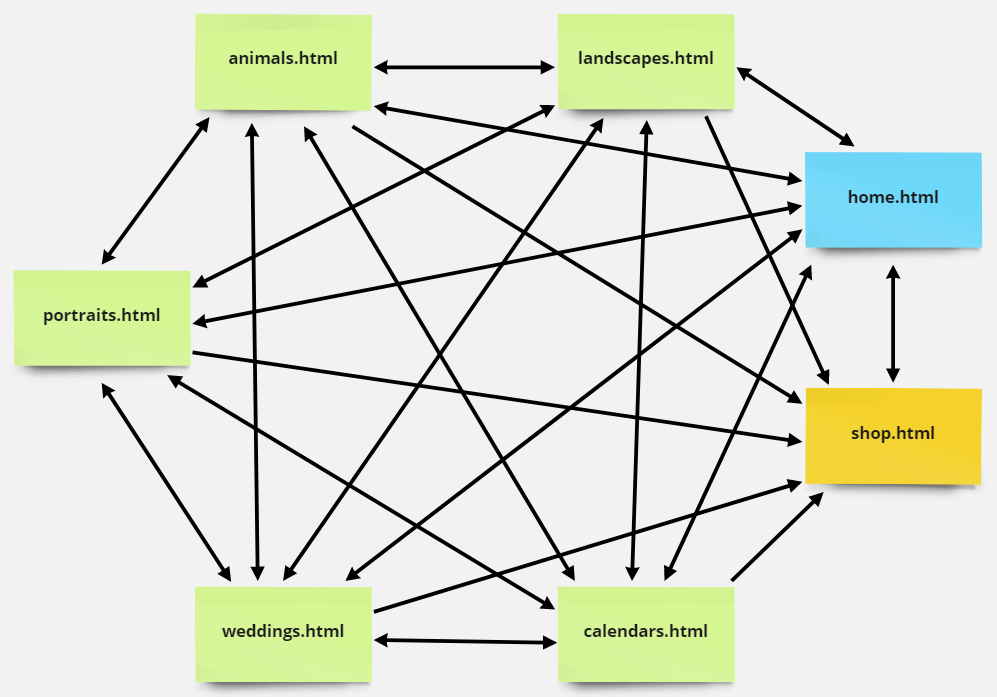
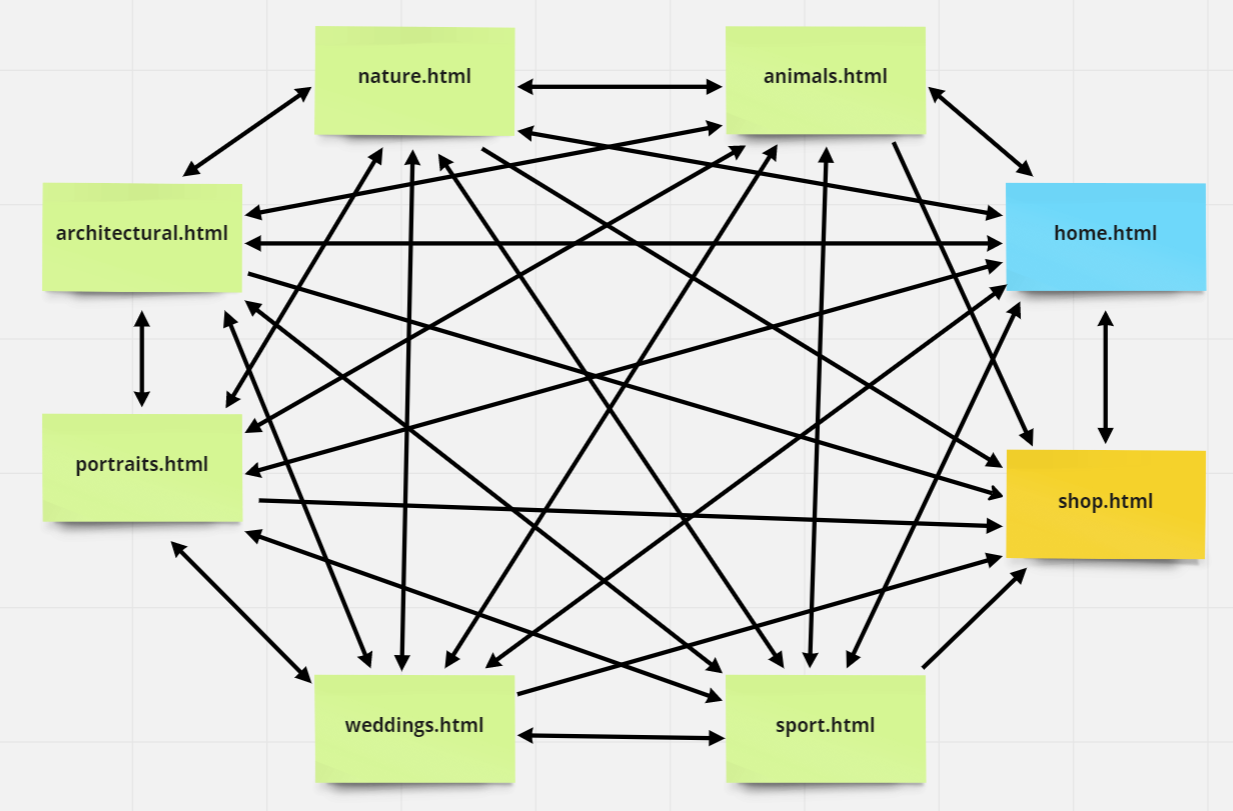
P2 navigation part updated

Changed region(s): [[0.0, 0.0, 0.995, 0.9943]]

diff --git a/Deliverables/P2_project-design/P2_design_5.html b/Deliverables/P2_project-design/P2_design_5.html
@@ -25,8 +25,8 @@
         <h2>Administrative Details</h2>
         <p>Our client is Niclas Nordlund, a photographer from Åland, Finland. 
             He is a freelance photographer who specializes in photos of animals,
-            landscapes, events and more. Additionally, he sells calendars, and 
-            wants an easier way for customers to reach him.</p>
+            landscapes, events and more, and has been looking for an easier way for customers to 
+            reach him.</p>
     </section>
     <br>
     <section>
@@ -34,8 +34,8 @@
         <p>
             The main purpose of the website will be to promote and showcase Niclas' 
             previous photography work, as well as trying to implement a payment solution 
-            for purchasing calendars/photos. The main audience for the website is 
-            professional customers interested in Niclas’ photos. 
+            for purchasing digital photos. The main audience for the website is 
+            professional customers interested in Niclas’ photographies. 
             
         </p>
     </section>
@@ -50,11 +50,11 @@
             different categories of pages. 
         </p><p>
             The purpose of the showcase mode is to easily be able to navigate between any of the pages 
-            related to browsing the photo showcase, namely the home.html, landscapes.html, animals.html, 
-            portraits.html, weddings.html and calendars.html pages. We also include a link to the shop.html 
+            related to browsing the photo showcase, namely the nature.html, animals.html, architectural.html, 
+            portrait.html, wedding.html and sport.html pages. We also include a link to the shop.html 
             page within the rollover menu of the showcase mode. The purpose of the shopping mode is to easily 
-            navigate between the shop.html and checkout.html pages, where the only way back to the showcase 
-            mode is through a link to the home page (found in the rollover menu).
+            navigate within the shop.html page, with an included checkout function only visible within the shopping mode.
+            The user navigates back to the showcase mode through a link to the home page (found in the rollover menu).
         </p><p>
             We aim to make the transition between modes as intuitive as possible, so that the user may freely 
             decide to either browse or shop without getting stuck. The storyboard figure below shows how each page
@@ -77,21 +77,23 @@
             and not overly complicated, to avoid taking the focus away from the photographies. 
             We have made different categories where the customers can look at 
             photos that might interest them. When the customer is browsing each page, 
-            the category of that page will light up to show which one the customer is browsing.
+            the category of that page will light up with a splash effect to show exactly where the customer is browsing.
             The site where the user will be able to shop photos will be accessible from every catergory, 
             making it simple for the customers to use. The home page will contain information about Niclas, 
             and will be accessible from every page on the website.
             
-            The fonts we have used on the website is easy to read, while the category font is pretty similar to his signature, but also very readable.
+            The font choices are based on the watermark signature displayed on Niclas' photographies; the font used in the 
+            navigation bar is based on a hand-written style, while the content part of the page uses a font focused on readability.
             In the footer element, we will add all of Niclas' contact information, as well as social media so that 
             customers will be able to get updates on new photographies, calendars etc.
-            The website will be responsive to smaller screens, which means it will be easier to use a mobile phone while looking/shopping.
+            The website will be responsive to smaller screens, which means it will be easier to use a mobile phone while 
+            browsing/shopping.
             
         </p>
         <figure>
             <img class='mockup' src='mockups/empty.png' alt='empty.png'>
             <figcaption>
-                <b>Figure 2:</b> Generic features mockup
+                <b>Figure 2:</b> Mockup of the generic features of each web page on our site
             </figcaption>
         </figure>
         <p>
@@ -100,7 +102,7 @@
                     "caveat cursive" with a handwritten look, mainly used for the different categories in the navbar. 
                     The font resembles Niclas' signature.
                     The second font is Noto Sans Mono, weight 200. The font resembles the one used in the word 
-                    "photography" in the logo. This is a sans serif font and the main font on the site. </li>
+                    "photography" in the logo. This is a sans serif font and the main font on the site.</li>
 
                 <li>The color scheme is oriented towards putting emphasis on the photos on the site. 
                     Navbar: #add8e6</li>
@@ -127,36 +129,41 @@
     <br>
     <section>
         <h2>Content</h2>
-        <p>stuff</p>
-        <h4>1. home.html</h4>
+        <p>There are a total of eight different HTML pages on our website, all sharing a similar style.
+            As explained earlier, the showcase mode features pages of a similar structure, and so we will bundle 
+            together the (6) pages in this category with two generalized mockups (desktop and mobile variants).
+        </p>
+        <h4>The home page</h4>
+        <p>We consider home.html. Blah Blah.</p>
         <figure>
             <img class='mockup' src='mockups/home.png' alt='home.png'>
             <figcaption>
-                <b>Figure 3:</b> Homepage
+                <b>Figure 3:</b> Mockup of the home page
             </figcaption>
         </figure>
-        <p>stuff</p>
-        <h4>2. nature.html, animals.html, architectural.html, portrait.html, wedding.html, sport.html</h4>
+        <h4>The showcase pages</h4>
+        <p>We consider nature.html, animals.html, architectural.html, portrait.html, wedding.html, sport.html. Blah Blah.</p>
         <figure>
             <img class='mockup' src='mockups/showcaseDesktop.png' alt='showcaseDesktop.png'>
             <figcaption>
-                <b>Figure 4:</b> Showcase desktop page
+                <b>Figure 4:</b> Generalized mockup of a showcase page on desktop
             </figcaption>
         </figure>
+        <p>We have a responsive website. Blah blah mobile variant blah blah.</p>
         <figure>
             <img class='mockup' src='mockups/showcaseMobile.png' alt='showcaseMobile.png'>
             <figcaption>
-                <b>Figure 5:</b> Showcase mobile page
+                <b>Figure 5:</b> Generalized mockup of a showcase page on mobile
             </figcaption>
         </figure>
-        <h4>3. shop.html</h4>
+        <h4>The shopping page</h4>
+        <p>We consider shop.html. Blah Blah.</p>
         <figure>
             <img class='mockup' src='mockups/checkout.png' alt='checkout.png'>
             <figcaption>
-                <b>Figure 6:</b> Shop and checkout
+                <b>Figure 6:</b> Mockup of the shopping page with the checkout open
             </figcaption>
         </figure>
-        <p>stuff</p>
     </section>
     <br>
     <section>
@@ -179,7 +186,9 @@
     <section>
         <h3>Plan</h3>
         <h4>Directory structure</h4>
-        <p> All project files are contained under a "Site" directory on the folk.ntnu servers. The project hierarchy will be structured as follows:</p>
+        <p> All project files are contained under a "Site" directory on the folk.ntnu servers. 
+            The project hierarchy will be structured as follows, focused mainly on storing the 
+            showcase photos categorically:</p>
         <div class='planStructure'>
             <ul>
                 <li><div>home.html</div></li>
@@ -298,98 +307,102 @@
 			<tbody>
                 <tr>
 					<td>icons</td>
-					<td>Generate icons with Dall-E 2 and photoshop them appropriately</td>
+					<td>Generate icons with Dall-E 2 and photoshop them appropriately.</td>
 					<td>Otto and Michael</td>
 					<td>17.10.2022</td>
 				</tr>
 				<tr>
 					<td>nature.html, animals.html, architectural.html, portrait.html, wedding.html, sport.html</td>
-					<td>Create display of the showcase pictures on their sites. Bigger pictures on landscape etc. Displayed after image width. Fade in animation for the photos.</td>
+					<td>Create display of the showcase pictures on their sites. Bigger pictures on landscape etc. 
+                        Displayed after image width. Fade in animation for the photos.</td>
 					<td>Magnus</td>
 					<td>17.10.2022</td>
 				</tr>
                 <tr>
 					<td>nav.css</td>
-					<td>Navigation bar styling</td>
+					<td>Navigation bar styling.</td>
 					<td>Michael</td>
 					<td>17.10.2022</td>
 				</tr>
                 <tr>
 					<td>showcase images</td>
-					<td>Get the files for showcase images from Niclas</td>
+					<td>Get the files for showcase images from Niclas.</td>
 					<td>Michael</td>
 					<td>24.10.2022</td>
 				</tr>
                 <tr>
 					<td>showcase.css</td>
-					<td>Styling for showcase pages</td>
+					<td>Styling for showcase pages.</td>
 					<td>Magnus</td>
 					<td>24.10.2022</td>
 				</tr>
                 <tr>
 					<td>fadeOnScroll.js</td>
-                    <td>Extra fancy effects when scrolling in items that can not be done in css</td>
+                    <td>Extra fancy effects when scrolling in items that can not be done in css.</td>
 					<td>Otto</td>
 					<td>24.10.2022</td>
 				</tr>
                 <tr>
 					<td>shop images</td>
-					<td>Get the files for shop images from Niclas and crop them to a small size</td>
+					<td>Get the files for shop images from Niclas and crop them to a small size.</td>
 					<td>Michael</td>
 					<td>31.10.2022</td>
 				</tr>
                 <tr>
 					<td>home.html</td>
-					<td>Homepage with information about Niclas, quotes and best pictures. Also the footer with contact info easily accesible.</td>
+					<td>Homepage with information about Niclas, quotes and best pictures. 
+                        Also the footer with contact info easily accesible.</td>
 					<td>All</td>
 					<td>31.10.2022</td>
 				</tr>
 				<tr>
 					<td>shop.html</td>
-					<td>Create the checkout system with shopping display and checkout cart. Store prices and send to Stripe for checkout. (If there is time implement a webhook to send the bought images to the customer).</td>
+					<td>Create the checkout system with shopping display and checkout cart. 
+                        Store prices and send to Stripe for checkout. (If there is time implement a 
+                        webhook to send the bought images to the customer).</td>
 					<td>Martin and Michael</td>
 					<td>31.10.2022</td>
 				</tr>
                 <tr>
 					<td>shop.css</td>
-					<td>Shop styling</td>
+					<td>Shop styling.</td>
 					<td>All</td>
 					<td>31.10.2022</td>
 				</tr>
                 <tr>
 					<td>checkoutSystem.js</td>
 					<td>System for tracking which images are added to the shopping cart ready for purchase. 
-                        This information should be sent to the payment solution on Stripe</td>
+                        This information should be sent to the payment solution on Stripe.</td>
 					<td>Martin</td>
 					<td>31.10.2022</td>
 				</tr>
                 <tr>
 					<td>quotesTyping.js</td>
-					<td>Text being "written" on the page </td>
+					<td>Text being "written" on the page.</td>
 					<td>Magnus</td>
 					<td>31.10.2022</td>
 				</tr>
 				<tr>
 					<td>splashOnClick.js</td>
-					<td>Splash effect on nav bar when selecting showcase pages</td>
+					<td>Splash effect on nav bar when selecting showcase pages.</td>
 					<td>Erik</td>
 					<td>31.10.2022</td>
 				</tr>
                 <tr>
 					<td>home.css</td>
-					<td>Homepage styling and generic styling</td>
+					<td>Homepage styling and generic styling.</td>
 					<td>All</td>
 					<td>07.11.2022</td>
 				</tr>
 				<tr>
 					<td>shoppingCart.js</td>
-					<td>Red dot to indicate items in cart, and an animation from the item being dropped in the cart</td>
+					<td>Red dot to indicate items in cart, and an animation from the item being dropped in the cart.</td>
 					<td>Erik</td>
 					<td>07.11.2022</td>
 				</tr>
 				<tr>
 					<td>slideTransition.js</td>
-					<td>Animation when going from shopping->showcase or showcase->shopping</td>
+					<td>Animation when going from shopping -> showcase or showcase -> shopping.</td>
 					<td>Martin and Michael</td>
 					<td>07.11.2022</td>
 				</tr>

diff --git a/Deliverables/css/PX.css b/Deliverables/css/PX.css
@@ -25,7 +25,7 @@ section {
     padding: 20px;
 }
 
-p, h4 {
+p, ul, h4 {
     text-align: left;
 }
 
